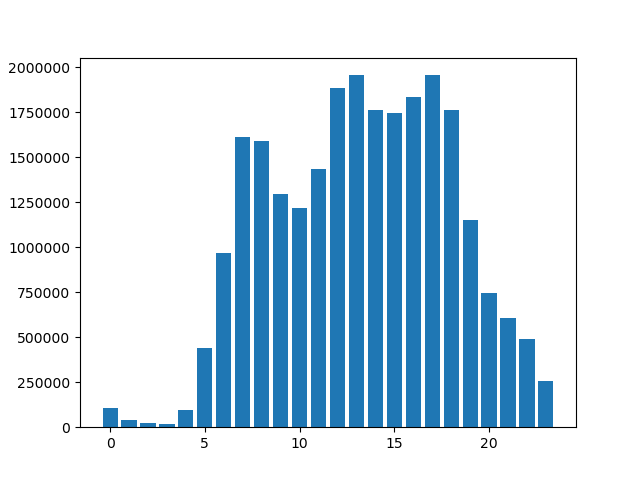
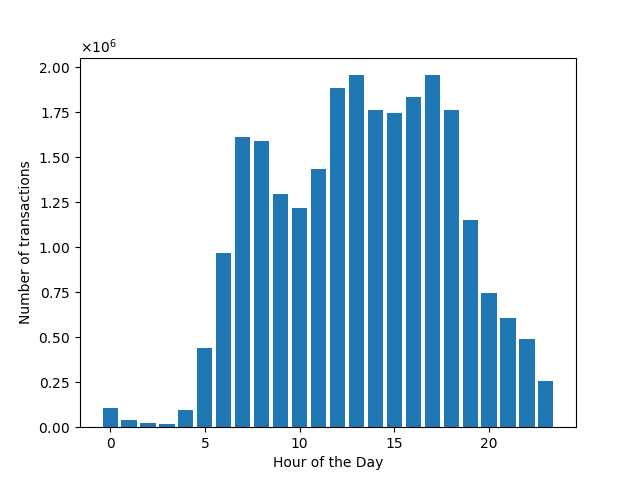
change plot layout

diff --git a/histograma_viajes.py b/histograma_viajes.py
@@ -1,7 +1,7 @@
 import datetime
-import pdb
 import numpy as np
 import matplotlib.pyplot as plt
+from matplotlib.ticker import ScalarFormatter
 
 RUTAS_ARCHIVO_VIAJES = [
     "datos/viajes/viajes_stm_052022.csv",
@@ -22,7 +22,12 @@ def obtener_histograma():
             hora = fecha_completa.time().hour
             cantidad_viajes_por_dia[hora] += 1
         print(cantidad_viajes_por_dia)
+    plt.xlabel('Hour of the Day')
+    plt.ylabel('Number of transactions')
     plt.bar(np.arange(len(cantidad_viajes_por_dia)), cantidad_viajes_por_dia)
+
+    ax = plt.gca()  # Get the current Axes instance
+    ax.yaxis.set_major_formatter(ScalarFormatter(useMathText=True))
     plt.savefig("histograma/histograma.png")
 
 
